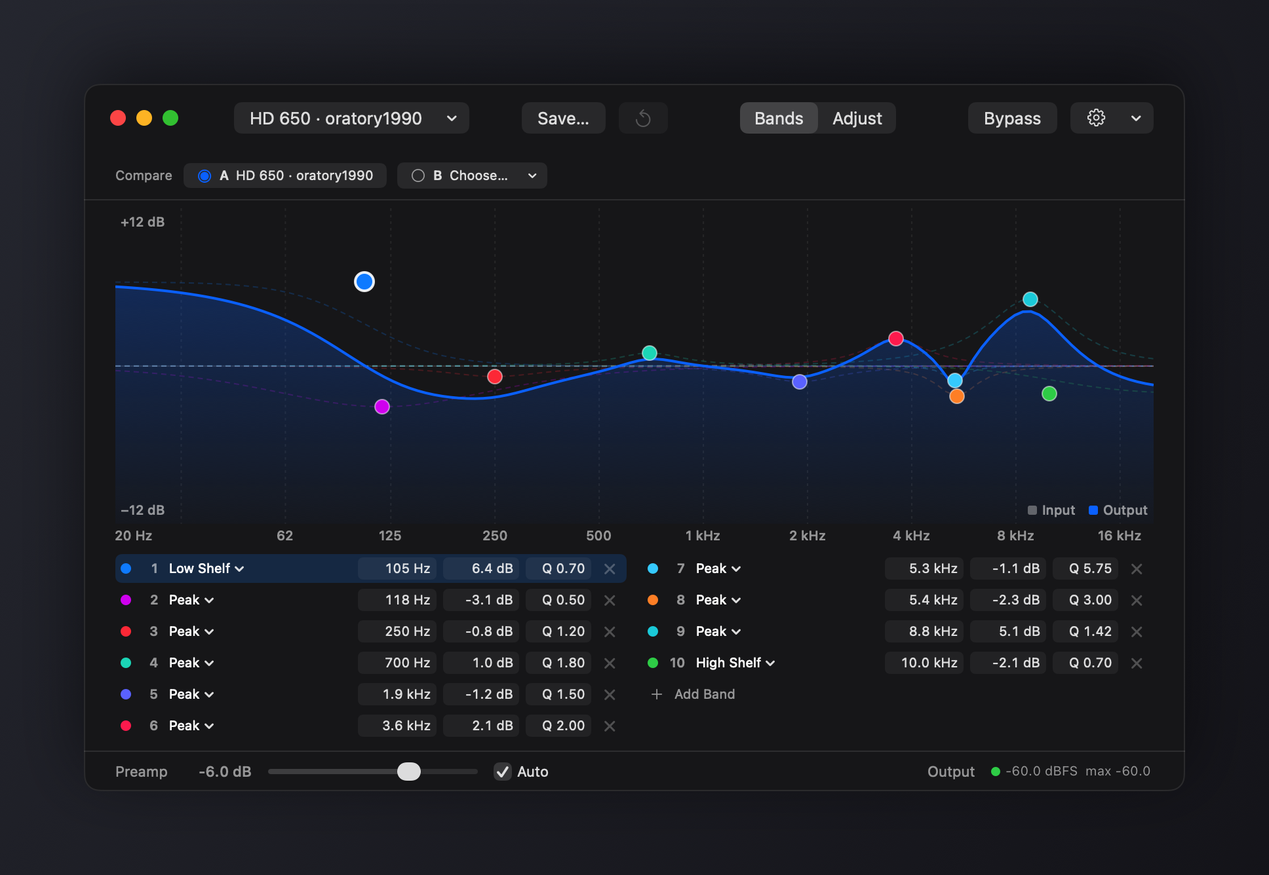
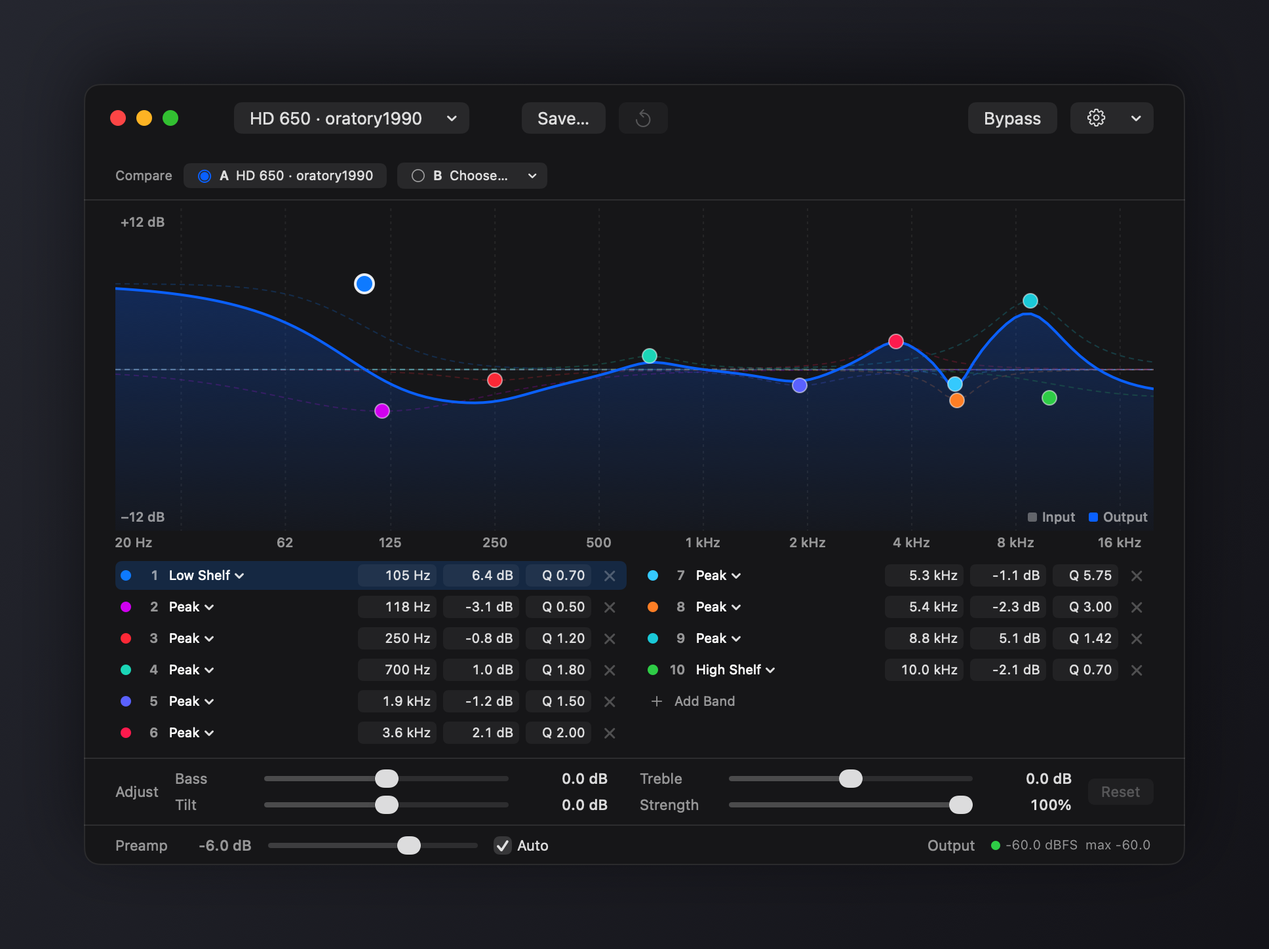
feat: keep the Adjust sliders under the band list (1.4.13)
Bass, Treble, Tilt, and Strength move out from behind the Bands /
Adjust switch into a two-row bar between the band list and the Preamp
bar, so they are always in view and a curve that leaves its handles
shows why. The toolbar loses the switch, the editor window opens at
616 pt tall with a 536 pt minimum, and the separate Adjust screenshot
goes away.

diff --git a/Sources/OnlyEQ/UI/EditorView.swift b/Sources/OnlyEQ/UI/EditorView.swift
@@ -31,9 +31,6 @@ struct EditorView: View {
     @State private var dragStartPreset: EQPreset?
     /// The preset as it was when an Adjust slider drag began.
     @State private var adjustDragStart: EQPreset?
-    @AppStorage("editorStripMode") private var stripMode: StripMode = .bands
-
-    enum StripMode: String { case bands, adjust }
 
     var body: some View {
         VStack(spacing: 0) {
@@ -41,7 +38,9 @@ struct EditorView: View {
             compareRow
             Divider()
             graph
-            if stripMode == .adjust { adjustPane } else { bandStrip }
+            bandStrip
+            Divider()
+            adjustBar
             Divider()
             bottomBar
         }
@@ -156,8 +155,6 @@ struct EditorView: View {
             saveButton
             revertButton
             Spacer()
-            stripModePicker
-            Spacer()
             bypassToggle
             AppGearMenu()
         }
@@ -173,23 +170,10 @@ struct EditorView: View {
             saveButton
             revertButton
         }
-        ToolbarItem(placement: .principal) { stripModePicker }
         ToolbarItemGroup(placement: .primaryAction) {
             bypassToggle
             AppGearMenu()
         }
-    }
-
-    /// The editor's two ways of working: every filter, or the whole profile.
-    private var stripModePicker: some View {
-        Picker("Editing", selection: $stripMode) {
-            Text("Bands").tag(StripMode.bands)
-            Text("Adjust").tag(StripMode.adjust)
-        }
-        .pickerStyle(.segmented)
-        .labelsHidden()
-        .fixedSize()
-        .help("Bands edits each filter. Adjust tunes the whole profile with Bass, Treble, Tilt, and Strength.")
     }
 
     private var presetMenu: some View {
@@ -502,38 +486,44 @@ struct EditorView: View {
         .padding(.vertical, 8)
     }
 
-    // MARK: - Adjust pane
+    // MARK: - Adjust bar
 
-    /// The simple way to tune a profile: two shelves, a tilt, and how much of
-    /// the correction to apply, laid over the bands without touching them.
-    private var adjustPane: some View {
-        HStack(spacing: 24) {
-            VStack(spacing: 8) {
-                adjustRow("Bass", value: $state.preset.adjustment.bassDB, range: -6...6, step: 0.5,
-                          actionName: "Change Bass", format: Self.signedDecibels,
-                          help: "Low shelf at 105 Hz")
-                adjustRow("Treble", value: $state.preset.adjustment.trebleDB, range: -6...6, step: 0.5,
-                          actionName: "Change Treble", format: Self.signedDecibels,
-                          help: "High shelf at 2.5 kHz")
-                adjustRow("Tilt", value: $state.preset.adjustment.tiltDB, range: -6...6, step: 0.5,
-                          actionName: "Change Tilt", format: Self.signedDecibels,
-                          help: "Tips the whole response about 1 kHz: up brightens, down warms")
-                adjustRow("Strength", value: strengthPercent, range: 0...100, step: 5,
-                          actionName: "Change Strength", format: Self.strengthPercentage,
-                          help: "How much of the preset's correction is applied")
+    /// Tunes the whole profile without editing its bands: two shelves, a
+    /// tilt, and how much of the correction to apply. It sits under the band
+    /// list so the reason a curve leaves its handles is always on screen.
+    private var adjustBar: some View {
+        HStack(spacing: 12) {
+            Text("Adjust")
+                .font(.subheadline)
+                .foregroundStyle(.secondary)
+                .fixedSize(horizontal: true, vertical: false)
+            Grid(horizontalSpacing: 24, verticalSpacing: 6) {
+                GridRow {
+                    adjustRow("Bass", value: $state.preset.adjustment.bassDB, range: -6...6, step: 0.5,
+                              actionName: "Change Bass", format: Self.signedDecibels,
+                              help: "Low shelf at 105 Hz")
+                    adjustRow("Treble", value: $state.preset.adjustment.trebleDB, range: -6...6, step: 0.5,
+                              actionName: "Change Treble", format: Self.signedDecibels,
+                              help: "High shelf at 2.5 kHz")
+                }
+                GridRow {
+                    adjustRow("Tilt", value: $state.preset.adjustment.tiltDB, range: -6...6, step: 0.5,
+                              actionName: "Change Tilt", format: Self.signedDecibels,
+                              help: "Tips the whole response about 1 kHz: up brightens, down warms")
+                    adjustRow("Strength", value: strengthPercent, range: 0...100, step: 5,
+                              actionName: "Change Strength", format: Self.strengthPercentage,
+                              help: "How much of the preset's correction is applied")
+                }
             }
-            .frame(maxWidth: 520)
             Button("Reset") {
                 state.recordingUndo("Reset Adjustments", undoManager) { state.preset.adjustment = .neutral }
             }
             .disabled(state.preset.adjustment.isNeutral)
             .help("Back to the preset as published")
-            Spacer(minLength: 0)
         }
         .controlSize(.small)
         .padding(.horizontal, 24)
-        .padding(.vertical, 12)
-        .frame(height: Self.bandStripHeight)
+        .padding(.vertical, 8)
     }
 
     private var strengthPercent: Binding<Double> {
@@ -561,7 +551,7 @@ struct EditorView: View {
             Text(label)
                 .font(.subheadline)
                 .foregroundStyle(.secondary)
-                .frame(width: 60, alignment: .leading)
+                .frame(width: 56, alignment: .leading)
             Slider(
                 value: Binding(
                     get: { value.wrappedValue },

diff --git a/Sources/OnlyEQ/App/AppDelegate.swift b/Sources/OnlyEQ/App/AppDelegate.swift
@@ -278,12 +278,12 @@ final class WindowManager {
         let isCreatingWindow = editorWindow == nil
         if editorWindow == nil {
             let window = NSWindow(
-                contentRect: NSRect(x: 0, y: 0, width: 840, height: 560),
+                contentRect: NSRect(x: 0, y: 0, width: 840, height: 616),
                 styleMask: [.titled, .closable, .miniaturizable, .resizable],
                 backing: .buffered, defer: false
             )
             window.title = "Equalizer"
-            window.minSize = NSSize(width: 720, height: 480)
+            window.minSize = NSSize(width: 720, height: 536)
             window.isReleasedWhenClosed = false
             // EditorView supplies the toolbar items; the preset menu stands
             // where a document title would, so the title itself stays hidden.

diff --git a/Sources/OnlyEQ/App/ScreenshotRenderer.swift b/Sources/OnlyEQ/App/ScreenshotRenderer.swift
@@ -47,7 +47,7 @@ enum ScreenshotRenderer {
                 panelRadius: PopoverView.cornerRadius, dark: dark))
 
             save("editor", canvas(
-                windowChrome(EditorView(inlineToolbar: true).environmentObject(state).frame(width: 840, height: 540),
+                windowChrome(EditorView(inlineToolbar: true).environmentObject(state).frame(width: 840, height: 596),
                              width: 840, inTitleBar: true),
                 panelRadius: 12, dark: dark))
 

diff --git a/.impeccable/critique/2026-09-08T17-08-56Z__sources-onlyeq-ui-editorview-swift.md b/.impeccable/critique/2026-09-08T17-08-56Z__sources-onlyeq-ui-editorview-swift.md
@@ -1,0 +1,85 @@
+---
+target: the editor window
+total_score: 27
+max_score: 40
+na_heuristics: 
+p0_count: 1
+p1_count: 3
+timestamp: 2026-09-08T17-08-56Z
+slug: sources-onlyeq-ui-editorview-swift
+---
+Method: dual-agent (A: design review sub-agent · B: detector sub-agent)
+
+## Design Health Score
+
+| # | Heuristic | Score | Key Issue |
+|---|-----------|-------|-----------|
+| 1 | Visibility of System Status | 2 | In Bands mode with a non-neutral Adjust layer the curve misses its own handles and nothing says why |
+| 2 | Match System / Real World | 3 | "Output" names both the spectrum legend and the peak meter; "Q" is bare |
+| 3 | User Control and Freedom | 3 | Undo is named and per-drag, but only Cmd+Z reaches it; Escape does not cancel the Save sheet |
+| 4 | Consistency and Standards | 3 | No checkmark on the current preset in the menu; hyphen-minus in fields, true minus on the axis |
+| 5 | Error Prevention | 3 | A value field left by Tab keeps an uncommitted draft open |
+| 6 | Recognition Rather Than Recall | 2 | Double-click, arrow nudge, Option fine steps, Delete key, meter reset all unhinted |
+| 7 | Flexibility and Efficiency | 3 | Q cannot be changed on the graph; no shortcut for A/B or Bands/Adjust |
+| 8 | Aesthetic and Minimalist Design | 3 | Adjust pane leaves the right half of the strip empty; idle meter text is noise |
+| 9 | Error Recovery | 3 | Typing "abc" into a field is discarded silently |
+| 10 | Help and Documentation | 2 | No tooltips on value fields, the type menu, or Auto |
+| **Total** | | **27/40** | **Good, with gaps in status and discoverability** |
+
+## Design Specificity Verdict
+
+**Review:** Three elements are authored for this product and nothing else could ship them: the Compare row whose pills name the curve they hold and switch level-matched, the Adjust pane laying Bass/Treble/Tilt/Strength over a measured profile without touching it, and the input-versus-output spectrum behind the curve. The band list that mirrors the graph (frequency order, columns, order frozen during a drag) is quiet but distinctive. Bands mode itself is category-generic: node graph, Hz/dB/Q fields, X delete, preamp slider. A generic parametric EQ could ship Bands mode unchanged.
+
+**Deterministic scan:** The detector ran on the editor file and the UI directory, both exit 0 with zero findings, but the tool has rules only for HTML, CSS, and JSX-shaped source. It scanned no Swift file with a matching rule, so the empty result is not evidence of a clean UI. The native audit reference covers iOS and Android only; its manual checks (accessibility labels and focus order, contrast, semantic colours, platform conformance) were folded into the review above.
+
+**Visual overlays:** not applicable. The target is a native macOS window with no URL, so no browser injection was attempted.
+
+## Overall Impression
+
+The editor is honest and restrained, and the parts that carry the product's idea (Compare, Adjust, the spectrum) are good. The biggest opportunity is the seam between the two editing modes: Adjust is invisible from Bands mode, and a person who used it once and comes back to Bands sees a curve that no longer passes through its own nodes.
+
+## What's Working
+
+- **Compare pills** name what they hold, mark the edited one, and switch level-matched, so the mechanism is legible without a manual and honest about loudness bias.
+- **The band list mirrors the graph.** Frequency order, column fill, and the order held still for the length of a drag mean rows never shuffle under the pointer. Handle numbers match row numbers for VoiceOver too.
+- **Undo granularity is right.** One step per drag or slider drag, named actions, keyboard steps as their own steps, and typed drafts carry the exact unitless value so "1.5 kHz" does not become 1.5 Hz.
+
+## Priority Issues
+
+- **[P0] The curve and its handles disagree when Adjust is non-neutral in Bands mode.** The graph draws the rendered bands, the handles sit on the raw bands, and nothing explains the gap. Fix: when the adjustment is not neutral, show a caption in the graph's top-trailing slot ("Adjusted: Bass +2.0 dB, Tilt −1.0 dB"), draw the unadjusted composite as a 1 pt dashed secondary line, and mark the Adjust segment. Command: /impeccable polish.
+- **[P1] Undo is invisible.** OnlyEQ is a menu-bar app with no main menu, so Cmd+Z is the only route and Redo is unguessable. Fix: add an undo affordance the window owns (Undo and Redo in the gear menu with their action names, and "Undoable" in the delete tooltips). Command: /impeccable clarify.
+- **[P1] Q is unexplained and cannot be changed on the graph.** Fix: Option-drag or scroll on the selected handle changes Q with the dashed individual response as live feedback; give the Q field a tooltip ("Width. Higher is narrower.") and the type menu one per filter. Command: /impeccable shape.
+- **[P1] The Save sheet is under-specified.** Escape does not cancel (Cancel lacks the cancel action), no text says what is saved, and the name-collision rule appears only when it triggers. Fix: bind Cancel to the cancel action, add a one-line caption ("Saves the bands, preamp, and adjustments as a preset."), prefill and select the current name. Command: /impeccable harden.
+- **[P2] The peak meter hides its reset and never says "clipped".** It is a static text with an undocumented click. Fix: make it a button with an accessibility action and print "Clipped" in red when the held peak exceeds −0.1 dBFS. Command: /impeccable polish.
+
+## Cognitive Load
+
+Failures: 3 of 8 (chunking, minimal choices, working memory). Decision points with more than four visible options: the preset menu, the seven-item filter-type menu, the band grid, and the Compare "Choose…" menu. Working memory: Bands mode requires remembering whether Adjust is non-neutral, and shortcuts must be remembered from tooltips.
+
+## Emotional Journey
+
+Peak: dragging a handle while the curve, its dashed individual response, and the output spectrum move together. End: the Save sheet is bare and nothing confirms afterwards. Valleys: first open with an imported profile shows ten bands, a negative preamp, and an empty "B Choose…" slot with no framing that this is the published correction and Adjust is where taste goes. Deleting a band feels irreversible because nothing advertises undo.
+
+## Persona Red Flags
+
+- **Alex (keyboard power user):** Tab crosses six stops per band row before the next row. No key changes Q. No shortcut switches A/B or Bands/Adjust, no Cmd+N for Add Band. Option fine steps live only in a code comment.
+- **Jordan (first-timer with an imported profile):** lands in Bands mode facing ten rows, "Q 0.70" and "Low Shelf" with no tooltips, and a preamp of −6.0 dB with no reason given. "B Choose…" reads as an unfinished form field. The pane built for them is behind a toolbar segment.
+- **Sam (VoiceOver / keyboard-only):** band rows are focusable but unlabeled groups (a bare "1", then "Peak", then fields). The selected row's fill has no accessibility trait. The peak meter has no reset action. A value field left by Tab traps its draft.
+
+## Minor Observations
+
+- PRODUCT.md line 40 says band edits have no undo; the code has it.
+- The preset menu label never shows an edited marker; only the A pill does.
+- Hyphen-minus in field values, true minus on the axis.
+- "Output" appears twice with two meanings.
+- The Auto tooltip is on the number, not the checkbox.
+- Reset in the Adjust pane would read better aligned with the readouts' bottom row.
+- The window title is hidden, so Mission Control shows an unnamed window.
+
+## Questions to Consider
+
+- Should an imported preset open in Adjust with the bands read-only behind an explicit "Edit bands", so the primary path never shows a Q field?
+- Since slot A is always the toolbar's preset, could Compare collapse into the toolbar and free a whole row?
+- Could Q live on the graph as the width of the dashed response, dragged at its shoulders, so the Q field disappears?
+- Is the preamp a user decision at all when Auto exists? One line, editable on click, slider only when Auto is off.
+- The editor half-borrows the document idiom. Should it commit: proxy dot for edited state, Cmd+S saves in place, Save As… for a new name, unsaved-changes sheet on close?

diff --git a/DESIGN.md b/DESIGN.md
@@ -218,7 +218,7 @@ The palette is macOS itself; the tokens above are dark-appearance snapshots of d
 
 The popover is one `VStack` inside 14 pt side padding, 360 pt wide and about 350 pt tall, with a spacing rhythm of tight inside a group and generous between groups: header (badge, name, caption latency, switch), 10 pt, the plot row (the well at a fixed 150 pt with the compact axis labels 4 pt beneath, then 10 pt and the 30 pt fader column whose track spans the well's height and whose readout sits on the axis line), 8 pt, the listening row (Bypass and Crossfeed as small text capsule toggles leading, the output device as a small text capsule pull-down trailing), 18 pt, the preset row in semibold with its "Use automatically on <device>" small checkbox, 14 pt, then a hairline and the footer (a text-only bordered Open Equalizer… and the gear menu with its system indicator) 10 pt below it. The preset row is a 22 pt secondary symbol (`waveform.path`), an 8 pt gap, a borderless menu, and its detail indented 30 pt underneath. The popover is sized once to its fitting size when shown, so the panel never resizes while open. It grows only with the system text size.
 
-The editor window opens at 840 by 560 pt with a minimum of 720 by 480. Its unified 52 pt title bar carries real toolbar items (preset menu, Save…, and Revert as an `arrow.counterclockwise` glyph on the left; the Bands / Adjust segmented control alone in the centre; Bypass and the gear on the right) and hides the window title. Import… lives in the preset menu, after the presets. The verbs are words; the one glyph is the undo arrow. Below it: the Compare row with 8 pt above and below, a divider, the graph filling the remaining height with 24 pt side margins, a 158 pt band list of 22 pt rows in two columns (three from 1056 pt wide), filled top to bottom then left to right and ordered low to high in frequency so it reads like the graph (the order holds still for the length of a node drag); ten bands and the Add Band row fit without scrolling, longer presets scroll vertically. The toolbar's Bands / Adjust segmented control swaps the list for the Adjust pane of the same height: Bass, Treble, Tilt, and Strength sliders with a Reset button, the simple way to tune a profile. Then a divider and the Preamp bar: the Preamp label, readout, and slider with the Auto checkbox on the left, and on the right, under its own "Output" label, the peak meter. Everything in the editor shares the 24 pt horizontal margin.
+The editor window opens at 840 by 616 pt with a minimum of 720 by 536. Its unified 52 pt title bar carries real toolbar items (preset menu, Save…, and Revert as an `arrow.counterclockwise` glyph on the left; Bypass and the gear on the right) and hides the window title. Import… lives in the preset menu, after the presets. The verbs are words; the one glyph is the undo arrow. Below it: the Compare row with 8 pt above and below, a divider, the graph filling the remaining height with 24 pt side margins, a 158 pt band list of 22 pt rows in two columns (three from 1056 pt wide), filled top to bottom then left to right and ordered low to high in frequency so it reads like the graph (the order holds still for the length of a node drag); ten bands and the Add Band row fit without scrolling, longer presets scroll vertically. Under it, a divider and the Adjust bar: Bass, Treble, Tilt, and Strength sliders in two rows with a Reset button, the simple way to tune a profile, always in view so the reason a curve leaves its handles is never hidden. Then a divider and the Preamp bar: the Preamp label, readout, and slider with the Auto checkbox on the left, and on the right, under its own "Output" label, the peak meter. Everything in the editor shares the 24 pt horizontal margin.
 
 Settings is 560 pt wide with toolbar-style tabs (General, Devices, Sound, Shortcuts, Advanced, each an SF Symbol); each page is one grouped `Form` and the window resizes to the page. Onboarding is 560 pt wide and at least 460 tall: content, a divider, and a footer with Back on the left and Continue or Start Listening on the right at the large control size with 16 pt padding. The import sheet is 560 pt wide and at least 470 tall: a segmented picker at 12 pt padding, a divider, the tab body at 16 pt padding, a divider, and Cancel and Apply at 12 pt padding.
 
@@ -266,8 +266,8 @@ Continuous (squircle) corners at 14 pt for the popover panel, 10 pt for the plot
 ### Band Row
 - A 22 pt row, 4 pt side padding, 5 pt spacing: an 8 pt colour dot, the band number in caption semibold secondary right-aligned in 16 pt, a borderless type menu in a 72 pt column, then frequency, gain, and Q as 60, 58, and 50 pt value fields (the Q field reads "Q 1.41" so it names itself), and a tertiary delete glyph. Selected: a 5 pt rounded fill of the band colour at 18 %. 50 % opacity when the band is disabled. The last row is Add Band, a plain caption button with a `plus` glyph in secondary; the new band lands at the centre of the widest gap between the existing bands on the log axis, never on a neighbour.
 
-### Adjust Pane
-- Same 158 pt as the band list, 12 pt vertical padding, rows 8 pt apart and centred. Each row: a 60 pt subheadline secondary label, a small slider, and a 64 pt subheadline medium monospaced readout aligned on the unit ("+1.5 dB", "0.0 dB", "85%", "Off" at zero strength). Bass and Treble are ±6 dB shelves at 105 Hz and 2.5 kHz, Tilt is ±6 dB at the ends about 1 kHz, Strength is 0 to 100 % of the bands' gain. A small bordered Reset button sits beside the readouts, disabled when everything is neutral. Arrow keys move a slider one step (0.5 dB, 5 %). The graph keeps its handles on the preset's bands and draws the composite of what is heard.
+### Adjust Bar
+- An "Adjust" subheadline secondary label, then a two-by-two grid (24 pt between columns, 6 pt between rows) of Bass and Treble over Tilt and Strength, 8 pt vertical padding. Each cell: a 56 pt subheadline secondary label, a small slider that takes the remaining width, and a 64 pt subheadline medium monospaced readout aligned on the unit ("+1.5 dB", "0.0 dB", "85%", "Off" at zero strength). Bass and Treble are ±6 dB shelves at 105 Hz and 2.5 kHz, Tilt is ±6 dB at the ends about 1 kHz, Strength is 0 to 100 % of the bands' gain. A small bordered Reset button trails the grid, disabled when everything is neutral. Arrow keys move a slider one step (0.5 dB, 5 %). The graph keeps its handles on the preset's bands and draws the composite of what is heard.
 
 ### Curve Editor (signature)
 - Log-frequency plot from 20 Hz to 20 kHz. Grid is 1 pt secondary at 12 % dashed 2/3 on octaves; the 0 dB line is 25 %. The composite response is a 2 pt accent stroke over a vertical accent gradient from 35 % to 3 % in the editor and previews; in the popover it is a 1.5 pt line at 90 % with no fill, and the spectrum bars run at 22 % and 85 % height so the music leads and the curve reads over it. In the editor each band draws its own response dashed 4/3 at 22 % in its palette colour. Behind everything, log-spaced spectrum bars in an AppKit layer: input in secondary label colour, output in accent, both at low alpha, with a 10 ms attack and 400 ms release on band power, a 45 ms interpolation at the display rate, and the output shifted by the static gain so only the filter shape shows. Bypass dims the plot to 55 % and eases the response onto the 0 dB line, so the curve settles flat rather than vanishing.

diff --git a/README.md b/README.md
@@ -20,7 +20,7 @@ This is a fork of [zollans/OnlyEQ](https://github.com/zollans/OnlyEQ). Everythin
 - **Loudness compensation** following the ISO 226 equal-loudness contours: low and high shelves grow as the volume drops below a reference level you set, and the preamp absorbs the boost so nothing clips.
 - **A popover that is the instrument.** The live spectrum fills the popover under the name and switch, with the preset's response as a thin line over it and a vertical volume fader at its side. Bypass, Crossfeed, and the output device sit right under it as small capsules, then the preset with a checkbox that makes it the device's automatic preset. Import lives in the preset menu, and a hairline with Open Equalizer… closes the panel. Bypass eases the curve onto the 0 dB line rather than blanking it, and the corner pill appears only when something is off. The panel uses the system menu-bar material (Liquid Glass on macOS 26). The menu-bar icon fills while the EQ shapes sound and outlines while it is off or bypassed.
 - **Editor with a real title-bar toolbar**, and Settings in its own window (⌘,), as on any Mac app.
-- **Adjust pane** in the editor: Bass, Treble, Tilt, and Strength sliders that sit over an imported profile without editing its bands, for warming up or brightening a correction you otherwise leave alone. Saved with the preset; Compare, Bypass, Revert, and Undo all include it.
+- **Adjust bar** under the band list: Bass, Treble, Tilt, and Strength sliders that sit over an imported profile without editing its bands, for warming up or brightening a correction you otherwise leave alone. Saved with the preset; Compare, Bypass, Revert, and Undo all include it.
 - **Releases from GitHub Actions.** Every push runs the self-tests and builds the universal app in release mode. Pushing a `v*` tag signs the archive with this fork's Sparkle key and publishes it with its appcast as a GitHub Release, which installed copies pick up automatically. Upstream's feed is no longer used, so an upstream release can never replace a fork build.
 - **Input and output spectrum.** The analyser draws the pre-EQ signal in grey behind the post-EQ signal in the accent colour, level-aligned for preamp and output gain, so the EQ's effect is visible on real music. Bars show band power (a full-scale sine reads 0 dBFS), tilted 2 dB per octave so typical music reads flat instead of bass-heavy, with a 10 ms attack and 400 ms release so transients register without flicker. Bars below about 300 Hz read from a 16384-point FFT and the rest from a 2048-point one, so bass has real resolution without smearing transients above.
 - **Simpler controls.** The popover has one preset row with Bypass and Crossfeed side by side, a curve that empties to the input spectrum while bypassed, and a gear menu holding Settings, Check for Updates, and Quit. The right-click menu offers the same items. The editor's Reset-to-flat button is replaced by Revert (the undo arrow in the toolbar), which restores the saved preset, and the output-device picker lives only in the popover. The editor lists bands as rows in two columns, low to high in frequency, so a ten-band preset shows whole without scrolling. Settings gains a Sound tab for the limiter, crossfeed, and loudness.

diff --git a/release-notes/1.4.13.md b/release-notes/1.4.13.md
@@ -1,0 +1,4 @@
+# OnlyEQ 1.4.13
+
+- The Adjust sliders now sit under the band list instead of behind a Bands / Adjust switch, so Bass, Treble, Tilt, and Strength are always in view and a curve that leaves its handles shows why. The toolbar loses the switch.
+- The editor window opens a little taller to make room.
